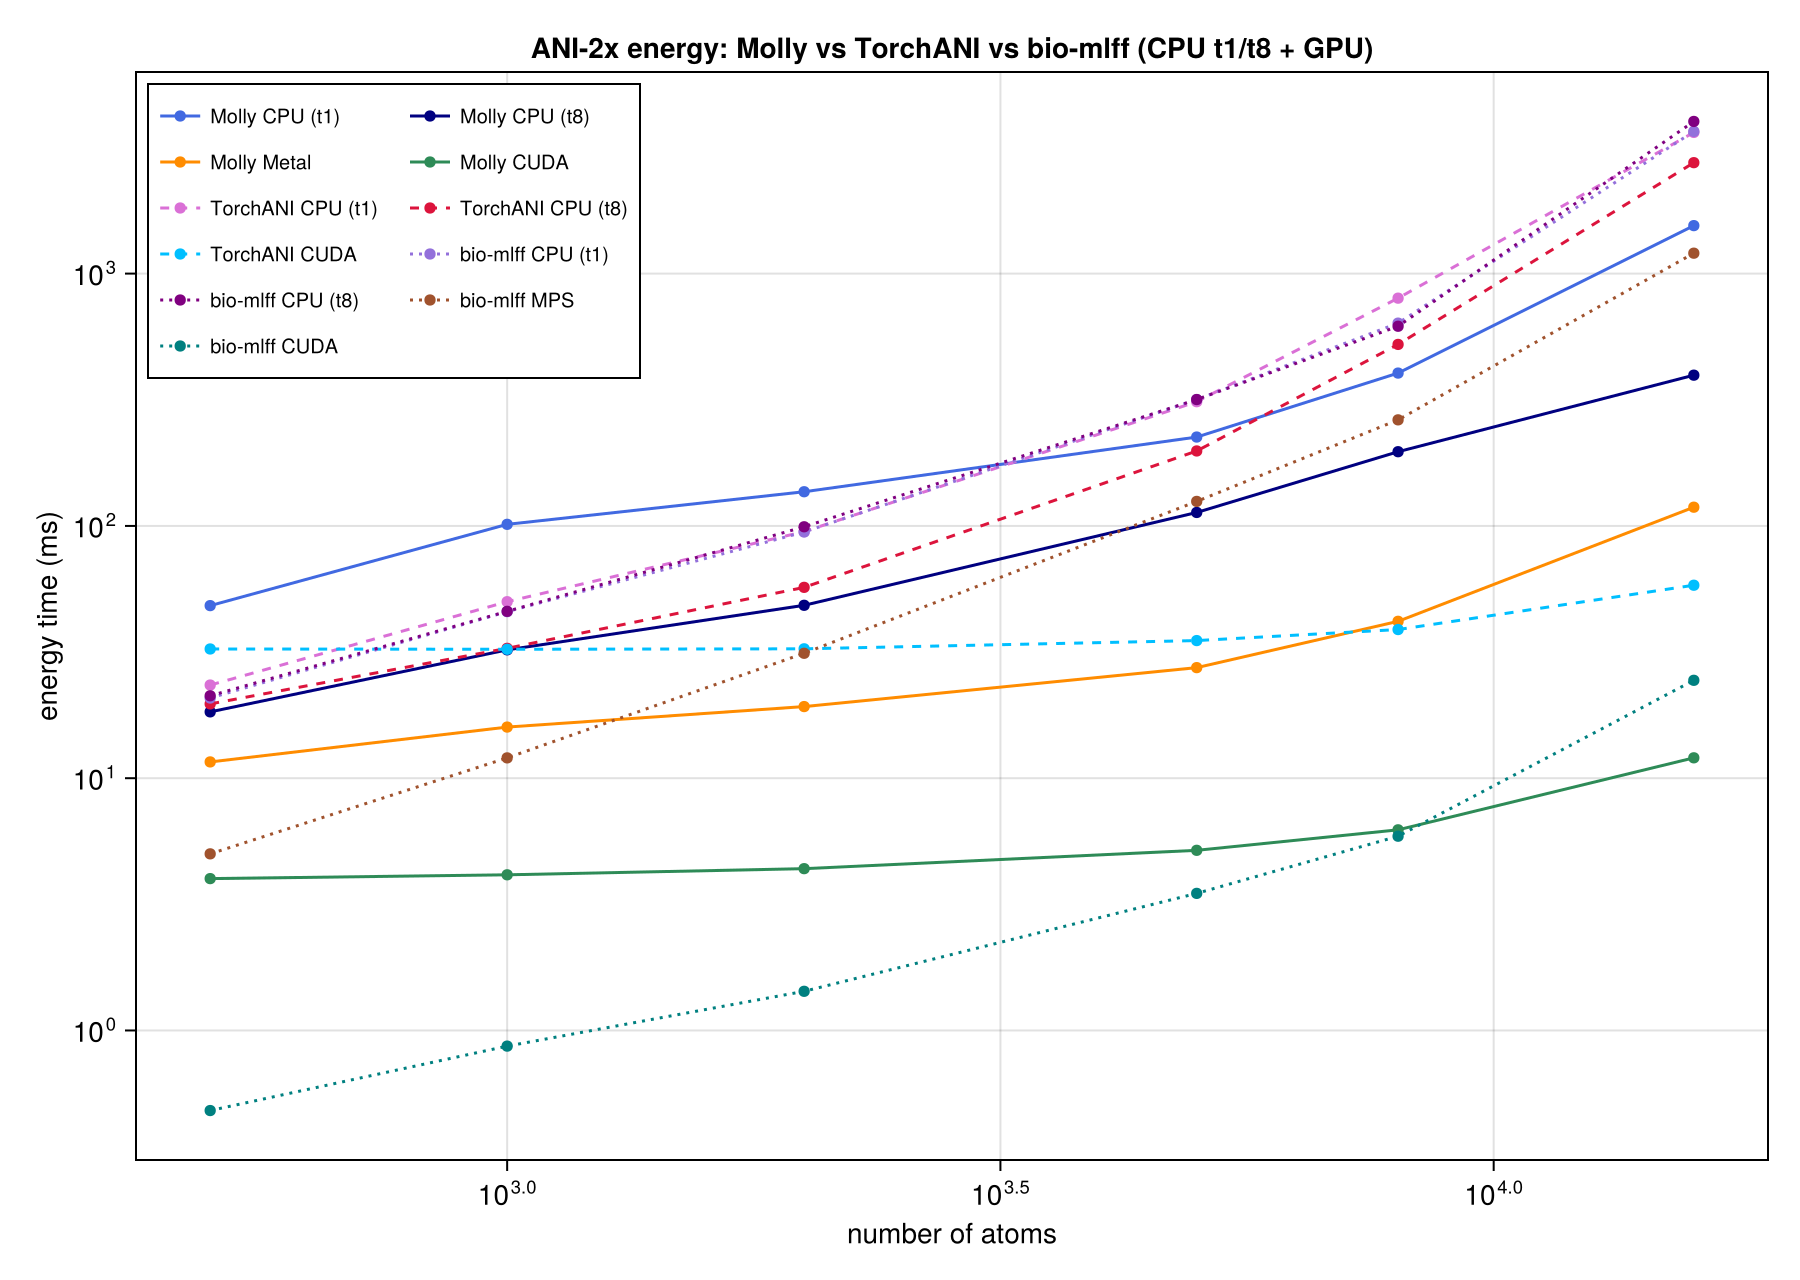
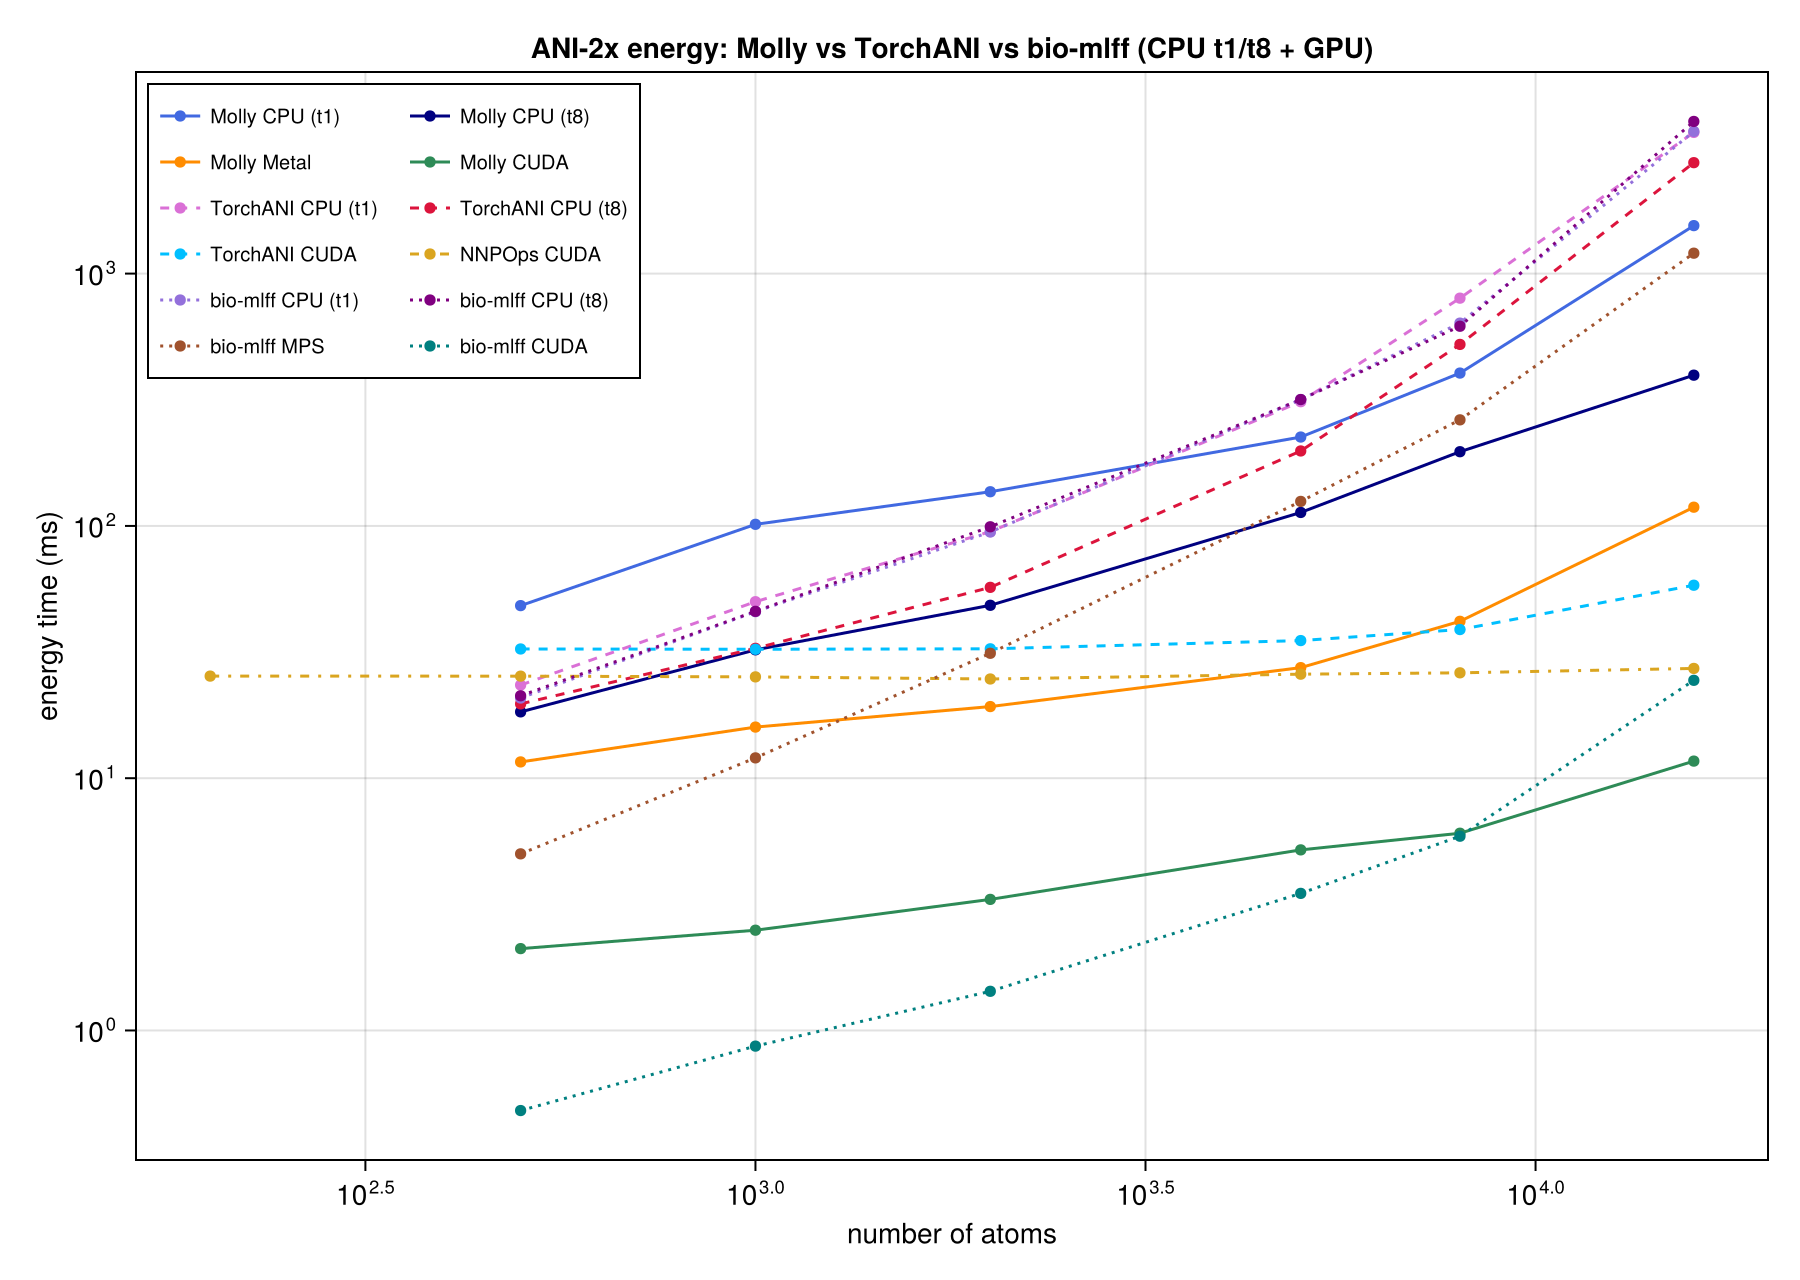
ANI: add NNPOps optimized-CUDA baseline to the benchmark comparison (PR #260)
NNPOps 0.7 (conda-forge) ships only ANISymmetryFunctions (the AEV kernels);
BatchedNN/OptimizedTorchANI were dropped, so it accelerates the AEV but leaves
TorchANI's eager NN + framework overhead in place. The NNPOps AEV matches
TorchANI 2.8.4's AEV to 1.2e-6 (float32-exact) and energies match stock TorchANI.

Result on RTX 5080: NN-bound ~25 ms energy / ~48 ms forces floor, flat in N.
NNPOps ~halves TorchANI-CUDA at 16k (E 58->27, F 99->51) but stays well above
Molly CUDA at every size (16k: E 12 vs 27, F 31 vs 51). Molly wins because it
also runs the NN on-device without per-call framework overhead.

- add "NNPOps CUDA" series (goldenrod dash-dot) to the energy/forces vs-N figures
- add NNPOps column to both CUDA tables + a baseline paragraph and gaps note

diff --git a/benchmark/ani_benchmarks.md b/benchmark/ani_benchmarks.md
@@ -171,25 +171,39 @@ equals the CPU/reference value; ΣF ≈ 1e-4 eV/Å (Float32, momentum conserved)
 
 Energy (single member, ms; **lower is better**):
 
-| N atoms | CPU (t8) | **Molly CUDA** | TorchANI CUDA | bio-mlff CUDA |
-|---------|----------|------------|---------------|---------------|
-| 500     | 39.5   | **4.0**  | 32.5 | 0.5 |
-| 1000    | 100.5  | **4.1**  | 32.4 | 0.9 |
-| 2000    | 151.7  | **4.4**  | 32.6 | 1.4 |
-| 5000    | 388.3  | **5.2**  | 35.1 | 3.5 |
-| 8000    | 688.5  | **6.2**  | 38.8 | 5.9 |
-| **15,954** | 1492.1 | **12.0** | 58.2 | 24.4 |
+| N atoms | CPU (t8) | **Molly CUDA** | TorchANI CUDA | NNPOps CUDA | bio-mlff CUDA |
+|---------|----------|------------|---------------|-------------|---------------|
+| 500     | 39.5   | **4.0**  | 32.5 | 25.4 | 0.5 |
+| 1000    | 100.5  | **4.1**  | 32.4 | 25.2 | 0.9 |
+| 2000    | 151.7  | **4.4**  | 32.6 | 24.7 | 1.4 |
+| 5000    | 388.3  | **5.2**  | 35.1 | 25.8 | 3.5 |
+| 8000    | 688.5  | **6.2**  | 38.8 | 26.2 | 5.9 |
+| **15,954** | 1492.1 | **12.0** | 58.2 | 27.2 | 24.4 |
 
 Forces (single member, ms):
 
-| N atoms | CPU (t8) | **Molly CUDA** | TorchANI CUDA | bio-mlff CUDA |
-|---------|----------|------------|---------------|---------------|
-| 500     | 285.2  | **10.1** | 62.5 | 1.4 |
-| 1000    | 337.7  | **10.8** | 62.5 | 2.5 |
-| 2000    | 410.8  | **12.1** | 63.3 | 4.0 |
-| 5000    | 1304.7 | **14.1** | 67.0 | 9.7 |
-| 8000    | 1951.0 | **15.5** | 72.6 | 15.4 |
-| **15,954** | 3905.3 | **31.3** | 98.9 | 42.7 |
+| N atoms | CPU (t8) | **Molly CUDA** | TorchANI CUDA | NNPOps CUDA | bio-mlff CUDA |
+|---------|----------|------------|---------------|-------------|---------------|
+| 500     | 285.2  | **10.1** | 62.5 | 48.6 | 1.4 |
+| 1000    | 337.7  | **10.8** | 62.5 | 48.5 | 2.5 |
+| 2000    | 410.8  | **12.1** | 63.3 | 47.3 | 4.0 |
+| 5000    | 1304.7 | **14.1** | 67.0 | 48.1 | 9.7 |
+| 8000    | 1951.0 | **15.5** | 72.6 | 48.0 | 15.4 |
+| **15,954** | 3905.3 | **31.3** | 98.9 | 51.2 | 42.7 |
+
+**NNPOps baseline (optimized-CUDA AEV).** The [openmm/NNPOps](https://github.com/openmm/NNPOps)
+library ([J. Phys. Chem. B 2023](https://doi.org/10.1021/acs.jpcb.3c06662)) provides hand-written
+CUDA symmetry-function kernels for ANI. On this stack (conda-forge NNPOps 0.7 + TorchANI 2.8.4 +
+RTX 5080) NNPOps 0.7 ships **only** `ANISymmetryFunctions` (the AEV) — the `BatchedNN` /
+`OptimizedTorchANI` wrappers were dropped — so it accelerates the AEV but leaves TorchANI's eager
+NN + Python framework overhead in place. I validated the NNPOps AEV against TorchANI 2.8.4's own
+AEV (max abs diff 1.2e-6, i.e. float32-exact after concatenating its radial+angular outputs into
+the 1008-length layout) and the resulting energies match stock TorchANI exactly. The effect is a
+**flat ~25 ms energy / ~48 ms forces floor** (NN-bound): NNPOps roughly halves TorchANI-CUDA at
+16k (energy 58→27 ms, forces 99→51 ms) by flattening the AEV cost, but it stays **well above Molly
+CUDA at every size** (16k: 12 vs 27 ms energy, 31 vs 51 ms forces). Molly's staged path — device
+CSR + write-reduced AEV + batched Lux NN — beats the AEV-only NNPOps acceleration because Molly
+also runs the NN on-device without per-call framework overhead.
 
 At the full 6mrr protein (15,954 atoms) Molly-CUDA is **123× the host CPU on energy and 125× on
 forces**. Against the two reference GPU implementations on the *same* RTX 5080: Molly is **faster than
@@ -200,9 +214,10 @@ still wins below that (its fixed overhead is tiny). Both the forward AEV and the
 kernel use the write-reduced (workgroup-per-atom) scheme.
 
 The [energy](#energy-cpu) and [forces](#forces--the-single-analytic-path-cpu--metal) vs-N figures
-above overlay all five series (Molly CPU/Metal/CUDA + TorchANI CPU/CUDA) on one chart each. NB Molly
-CPU/Metal + TorchANI CPU are Apple Silicon while Molly CUDA + TorchANI CUDA are the RTX 5080 host, so
-read the scaling shape rather than the absolute cross-machine level.
+above overlay every series (Molly CPU/Metal/CUDA + TorchANI CPU/CUDA + NNPOps CUDA + bio-mlff
+CPU/MPS/CUDA) on one chart each. NB Molly CPU/Metal + TorchANI CPU are Apple Silicon while the CUDA
+series (Molly/TorchANI/NNPOps + bio-mlff) are the RTX 5080 host, so read the scaling shape rather
+than the absolute cross-machine level.
 
 **GPU speedup over host CPU-t8** (Molly Metal/CUDA, TorchANI CUDA, bio-mlff MPS/CUDA; log y-axis).
 Each line is a backend's speedup over its OWN host CPU-t8 — Metal/MPS baseline is the Apple M3, CUDA
@@ -342,6 +357,11 @@ alone.
   is the definitive comparison; TorchANI has no usable Apple-GPU path (see above). The **NVIDIA
   GPU-vs-GPU** comparison (Molly CUDA vs TorchANI CUDA on the same RTX 5080) is now measured — see
   the CUDA section. Both GPU sections are single-machine snapshots, not cross-machine claims.
+- **NNPOps optimized-CUDA baseline** is now included (see the CUDA section). Caveat: conda-forge
+  NNPOps 0.7 ships only the symmetry-function (AEV) kernels — its `BatchedNN`/`OptimizedTorchANI`
+  wrappers were removed — so the measured NNPOps path is TorchANI's eager NN on top of NNPOps' AEV
+  and is NN-bound (~25 ms energy / ~48 ms forces floor). It halves TorchANI-CUDA at scale but stays
+  above Molly CUDA. A future NNPOps release that restores batched-NN fusion would lower this floor.
 - **Metal forces** are timed for a **single ensemble member**. The full 8-member ensemble reuses
   one AEV forward/backward and runs only the NN VJP 8× (species-batched), so expect ~1.4× like
   energy — not yet measured on Metal.
